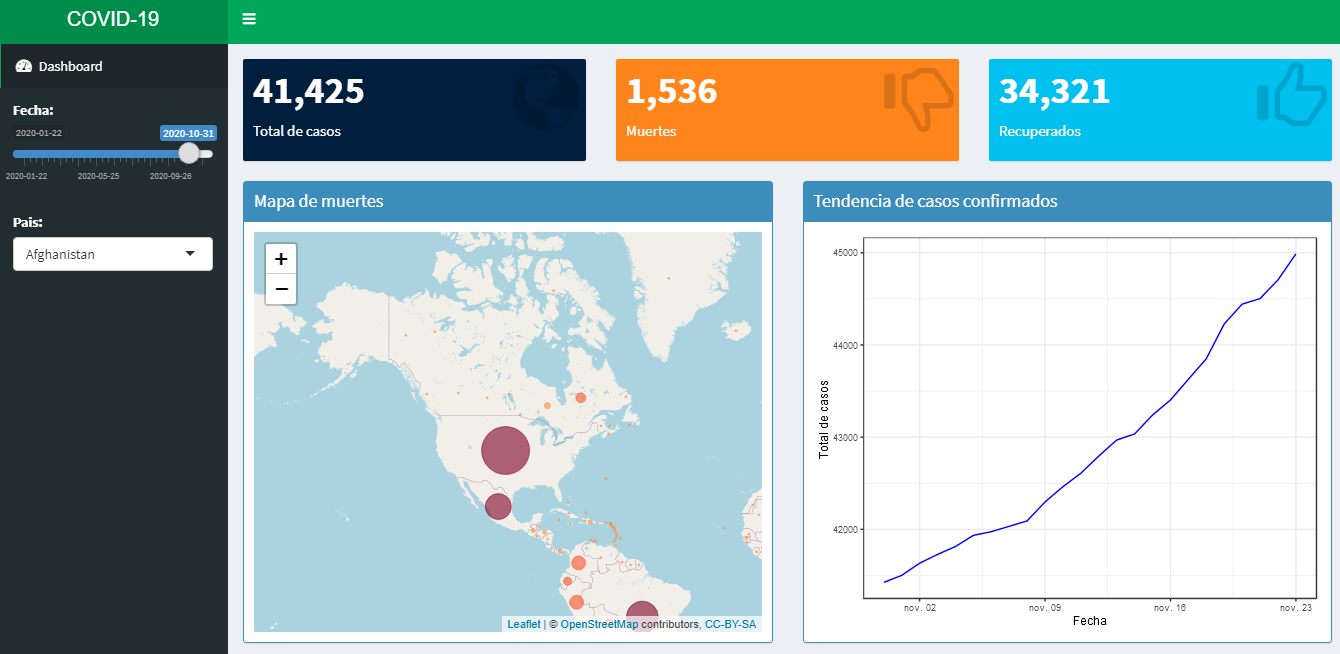
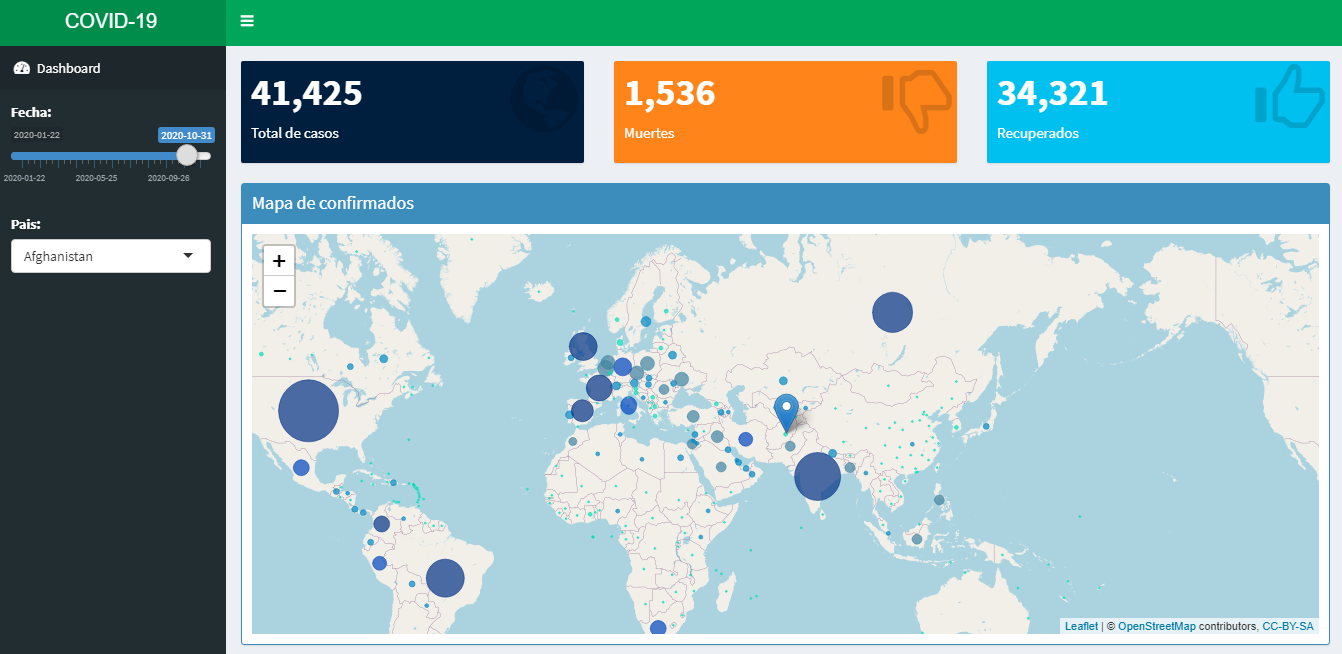
readme

diff --git a/ProyectoFinal/README.md b/ProyectoFinal/README.md
@@ -114,7 +114,23 @@ services:
 ```
 
 
-**1. Archivos proveidos**
+**2. Configuración de DAG**
+
+Se configura la siguiente variable para establecer la ruta de los archivos de entrada.
+
+<img src="https://raw.githubusercontent.com/estuardozapeta/Product-Development-Proyecto/main/image-5.png">
+ 
+Los siguientes parametros corresponden a las credenciales de conexión a la Base de Datos PostgreSQL.
+
+<img src="https://raw.githubusercontent.com/estuardozapeta/Product-Development-Proyecto/main/image-6.png">
+
+La siguiente imagen representa el flujo del proceso del DAG cuando se encuentra en ejecución.
+
+<img src="https://raw.githubusercontent.com/estuardozapeta/Product-Development-Proyecto/main/image-11.png">
+
+A continuación se listan los archivos que se trasladaron con la data correspondiente a casos confirmados, muertes y recuperaciones de COVID-19.
+
+**3. Archivos proveidos**
 
 A continuación se listan los archivos que se trasladaron con la data correspondiente a casos confirmados, muertes y recuperaciones de COVID-19.
 
@@ -122,7 +138,7 @@ A continuación se listan los archivos que se trasladaron con la data correspond
 * time_series_covid19_deaths_global.csv
 * time_series_covid19_recovered_global.csv
 
-**2. Estructura de la base de datos (PostgreSQL)**
+**4. Estructura de la base de datos (PostgreSQL)**
 
 Las tres tablas poseen la misma estructura, se hizo de esta manera por facilidad y manipulación de los datos.
 
@@ -158,7 +174,7 @@ create table recovered(
 
 ```
 
-**3. Transformación de datos y programación de DAG**
+**5. Transformación de datos y programación de DAG**
 
 El script de python que realiza la transformación requiere de las siguientes librerias, algunas como **pandas** para almacenar los datos en un Dataframe y **airflow** en su mayoría que se encarga de crear workflows de forma programática y, además, planificarlos y monitorizarlos de forma centralizada.
 
@@ -186,7 +202,6 @@ FILE_NAME = "time_series_covid19_confirmed_global.csv"
 La siguiente función se utiliza para realizar la transformación de los datos. El proceso se encarga de recorrer el archivo CSV, transformar los datos tipo DATE a un formato específico y de sumarizar los valores filtrados por fecha y país.
 
 ```python
-def etl_process(**kwargs):
     file_path = FSHook(conn_id = FILE_CONNECTION_ID).get_path()
     full_path = f'{file_path}/{FILE_NAME}'
     df = pd.read_csv(full_path, encoding = "ISO-8859-1")
@@ -197,12 +212,17 @@ def etl_process(**kwargs):
     lon = []
     date=[]
     val = []
+    
     fila = 0
     for idx,item in df.iterrows():
         fila += 1
         for coldate in total_cols[4:]:
             prov.append(item['Province/State'])
-            country.append(item['Country/Region'])
+            if str(item['Province/State']) == 'nan':
+                country.append(item['Country/Region'])
+            else:
+                country.append(item['Country/Region'] + '(' + item['Province/State'] + ')')
+            
             lat.append(item['Lat'])
             lon.append(item['Long'])
             date_time_obj = datetime.strptime(coldate, '%m/%d/%y')
@@ -212,12 +232,18 @@ def etl_process(**kwargs):
     d = {'provincia':prov, 'country': country, 'lat': lat, 'long': lon, 'dates': date, 'value':val}
     carga = pd.DataFrame(data=d)
     locallog = pd.DataFrame({'tipo':['confirmed'], 'fecha':[datetime.now()]})
-
+    resumen = carga.groupby(['dates']).sum()
+    resumen = resumen.reset_index()
+    resumen['provincia'] = ''
+    resumen['country'] = '-Global-'
+    resumen['lat'] = None
+    resumen['long'] = None
+    carga = carga.append(resumen)
     psql_connection = PostgresHook('pgsql').get_sqlalchemy_engine()
     with psql_connection.begin() as connection:
         connection.execute("truncate confirmed")
         carga.to_sql('confirmed', con=connection, if_exists='append', index=False)
-        locallog.to_sql('log_carga', con=connection, if_exists='append', index=False)        
+        locallog.to_sql('log_carga', con=connection, if_exists='append', index=False)    
 ```
 
 A continuación se crea el workflow para programar la carga a la base de datos, el proceso consiste en recoger la data transformada e insertarla en la estructura creada en Postgres.
@@ -250,27 +276,43 @@ etl_operator = PythonOperator(dag = dag,
 file_sensor_task >> etl_operator
 ```
 
-**4. Shiny App**
+**6. Shiny App**
 
-**4.1 Vista general de la aplicación**
+**6.1 Vista general de la aplicación**
 
 Al interactuar con los input que se encuentran del lado izquierdo, automáticamente se renderizan los indicadores, gráficas y resto de componentes del panel derecho.
 
 <img src="https://raw.githubusercontent.com/estuardozapeta/Product-Development-Proyecto/main/image-1.png">
 
-**4.2 Contador de casos confirmados, muertes y recuperados**
+**6.2 Contador de casos confirmados, muertes y recuperados**
 
 Los contadores que se muestran en la parte superior de la aplicación se actualizan dependiendo de la fecha o pais seleccionado.
 
 <img src="https://raw.githubusercontent.com/estuardozapeta/Product-Development-Proyecto/main/image-2.png">
 
-**4.3 Mapa de muertes**
+**6.3 Mapas interactivos**
 
-El mapa interactivo despliega un marcador sobre el pais que se seleccionó y además al posicionarse por encima de la burbuja devuelve la cantidad de muertes. El tamaño y color de cada burbuja pintada en el mapa varía dependiendo de la cantidad de muertes reportadas en el pais.
+Cada mapa despliega un marcador sobre el pais que se selecciona y además al posicionarse por encima de la burbuja devuelve la cantidad de casos confirmados, muertes o recuperados, según sea el caso. El tamaño y color de cada burbuja pintada en el mapa varía dependiendo de la cantidad de casos reportados en cada país.
+
+**6.3.1 Mapa de casos confirmados**
+
+<img src="https://raw.githubusercontent.com/estuardozapeta/Product-Development-Proyecto/main/image-7.png">
+
+**6.3.2 Mapa de muertes**
 
 <img src="https://raw.githubusercontent.com/estuardozapeta/Product-Development-Proyecto/main/image-3.png">
 
-**4.4 Detalle de casos recuperados**
+**6.3.3 Mapa de recuperados**
+
+<img src="https://raw.githubusercontent.com/estuardozapeta/Product-Development-Proyecto/main/image-8.png">
+
+**6.4 Tendencia de casos confirmados**
+
+La gráfica de líneas muestra el comportamiento de casos confirmados a lo largo de los meses desde que aparecío la enfermedad.
+
+<img src="https://raw.githubusercontent.com/estuardozapeta/Product-Development-Proyecto/main/image-9.png">
+
+**6.5 Detalle de casos recuperados**
 
 La siguiente tabla muestra el detalle de casos recuperados en un pais específico. En la columna **cantidad** se muestra una franja celeste que varía su intensidad dependiendo del día que más recuperaciones se han presentado.
 
